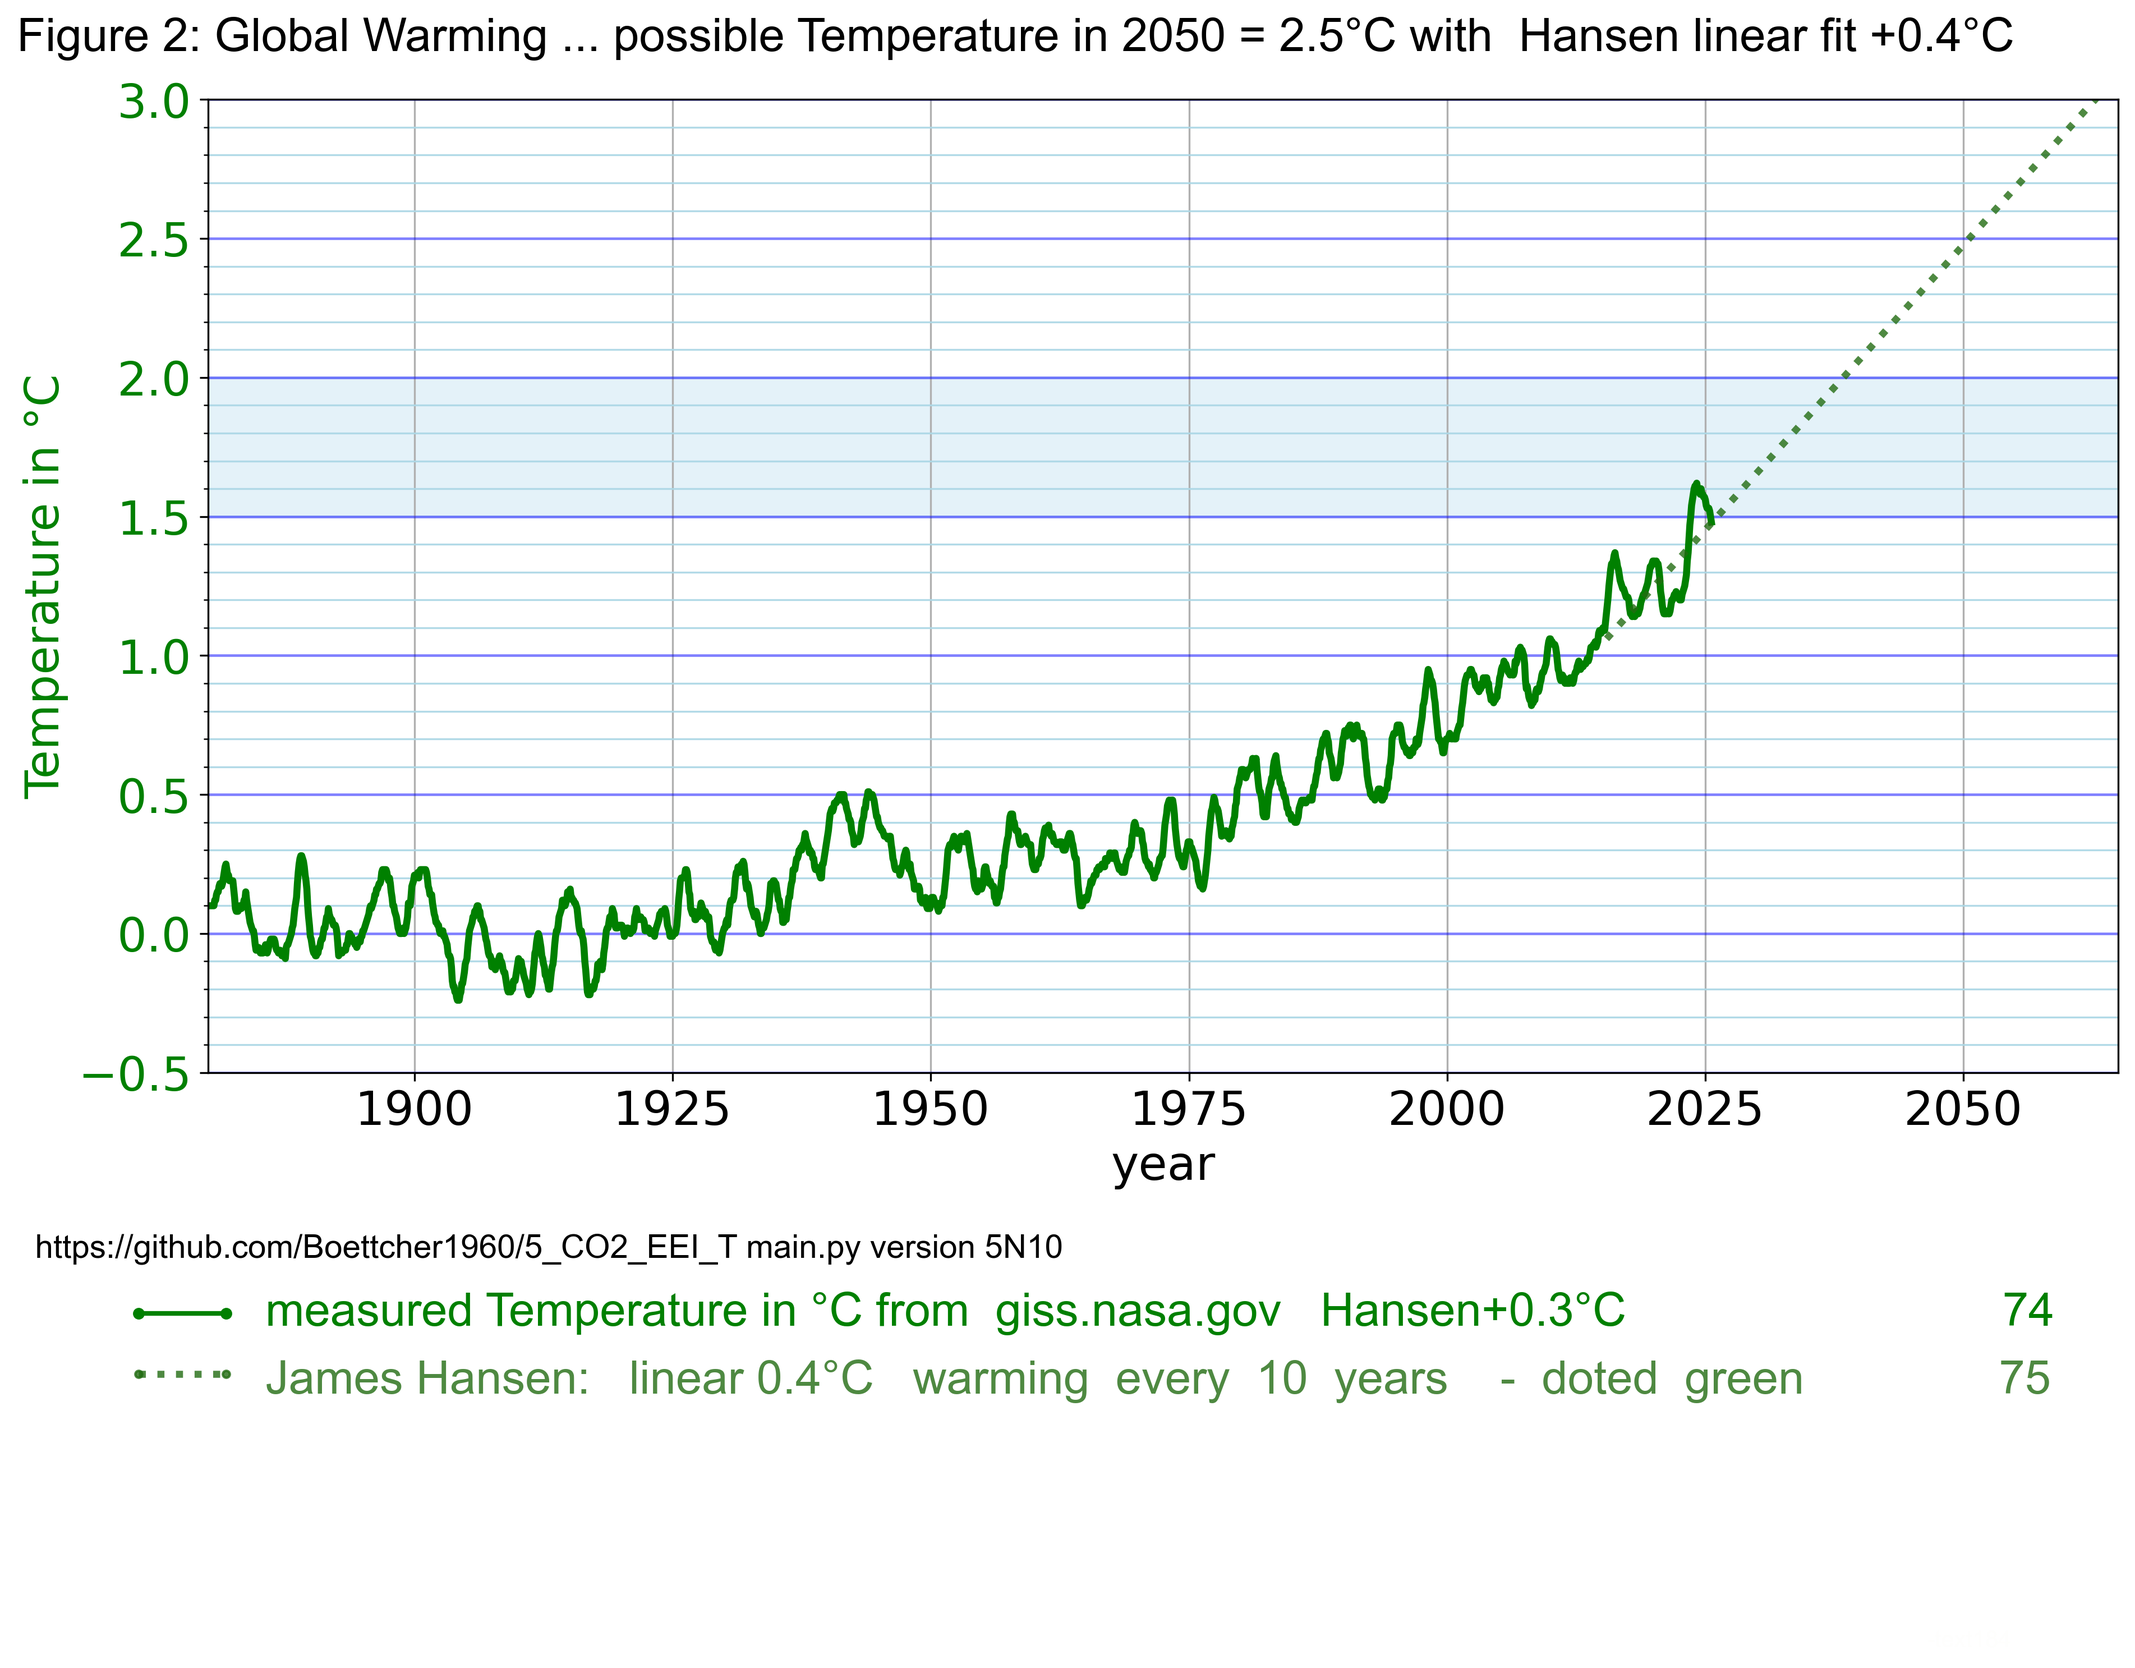
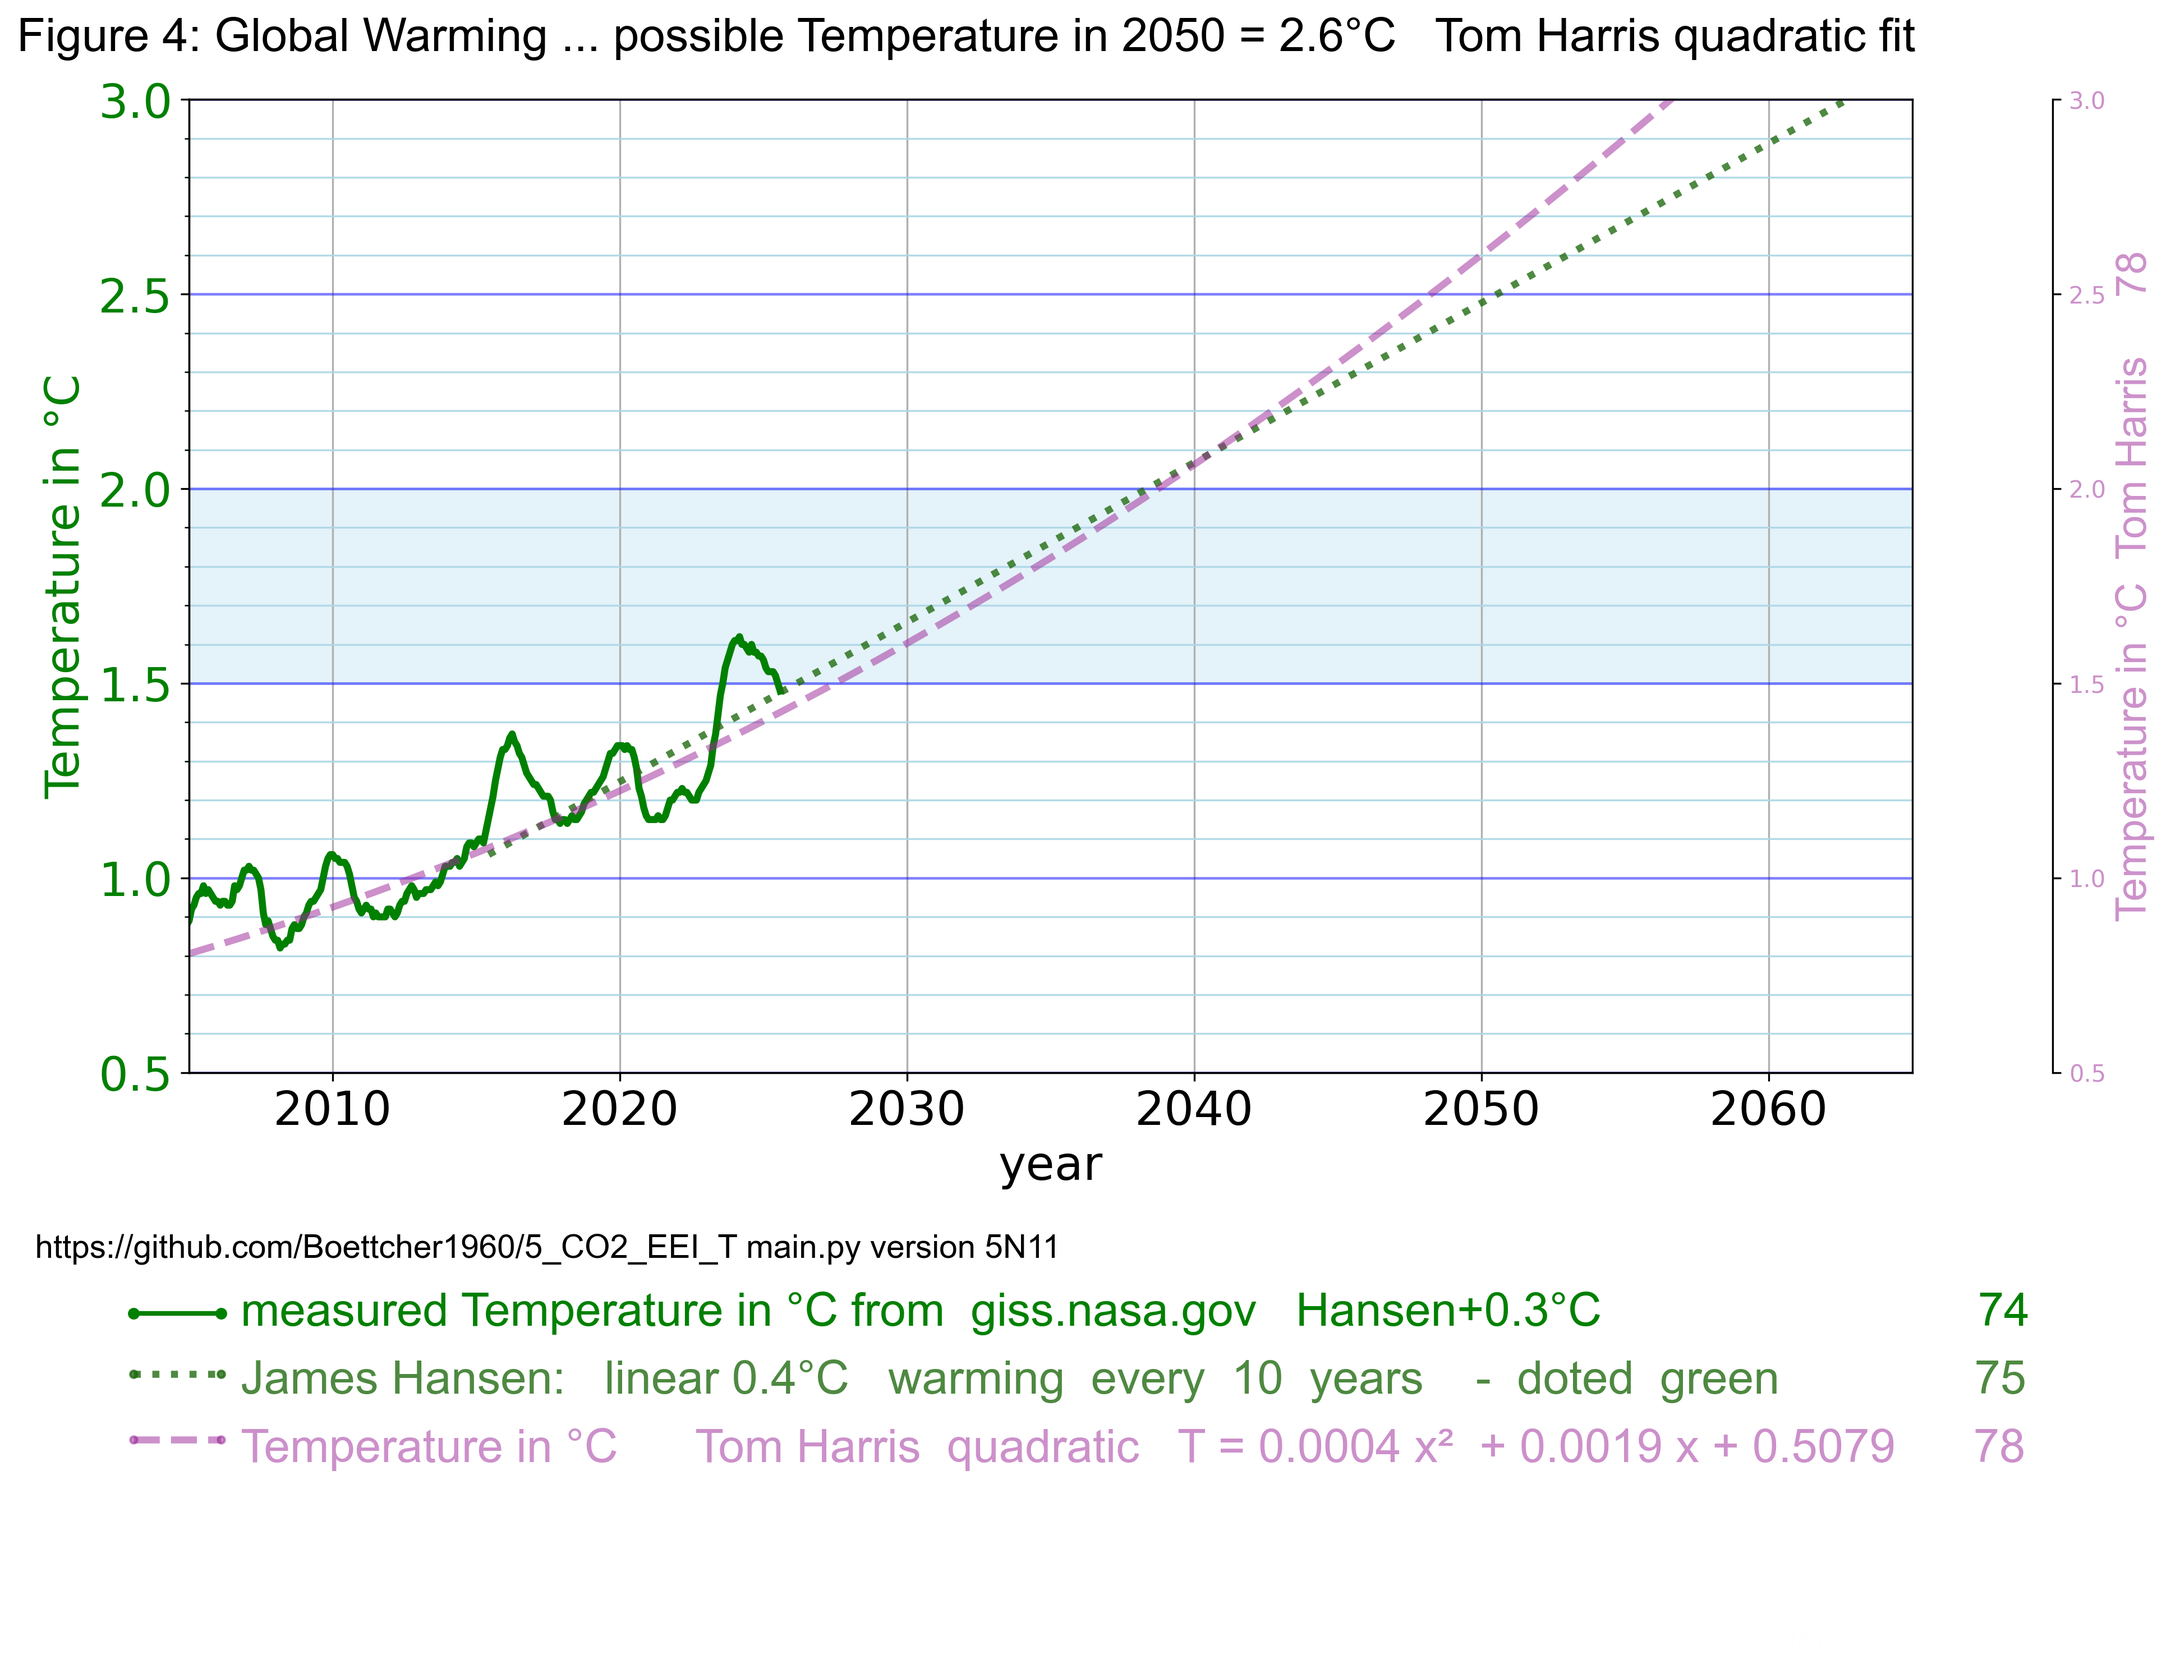
text_add_dashed_line(fig, x1, x2, y, color, linewidth=2, marker="o", markersize=3):

diff --git a/text.py b/text.py
@@ -41,12 +41,24 @@ def text_add_dotted_line(fig, x1, x2, y, color, linewidth=2, marker="o", markers
            color=color,
            # linestyle="None", 
            linestyle=":",
-           linewidth = 3
-            )
-
+           linewidth = 3                  )
     fig.add_artist(line)
     return line
 
+def text_add_dashed_line(fig, x1, x2, y, color, linewidth=2, marker="o", markersize=3):
+    # line = Line2D([x1, x2+0.02], [y, y], transform=fig.transFigure,
+    #              marker=marker, markersize=markersize, color=color, linewidth=linewidth)
+    line = Line2D(
+           [x1, x2 + 0.02], [y + 0.01, y+ 0.01],
+           transform=fig.transFigure,
+           marker=marker,
+           markersize=markersize,
+           color=color,
+           # linestyle="None", 
+           linestyle="--",
+           linewidth = 3                  )
+    fig.add_artist(line)
+    return line
 
 def text_4_add_text(ax, x, y, text, color, fontsize=20):
     """Add a text row below the plot"""
@@ -533,7 +545,7 @@ def text_9_print_7_lines(fig, ax1, header_parameter):
         text_4_add_text(ax1, tr2x, tr4y, 
                     "Temperature in °C   quadratic           1950=0.2°C     2013=1°C     2023=1.5°C         77", c77, trs)
     elif plot_T_78 == 4: # 78.5.3 legend
-        text_3_add_legend_line(fig, lr2x1, lr2x2, lr4y, c78)
+        text_add_dashed_line(fig, lr2x1, lr2x2, lr4y, c78)
         text_4_add_text(ax1, tr2x, tr4y, text78, c78, trs)
 
 

diff --git a/config.py b/config.py
@@ -12,7 +12,7 @@
 # 8.3 print the left y axis 
 # line 2 defines the left Y axis. example
 
-figure100 = 102 # 101 , 102 , 103 , 104 , 105 , 106 , 107 , 108  0 means create no old figure 1= make old figuure
+figure100 = 103 # 101 , 102 , 103 , 104 , 105 , 106 , 107 , 108  0 means create no old figure 1= make old figuure
 figure202 = 0 # 1 2=new figure with era5 temperature and quadratic curve
 figure303 = 0 # 3 , 4 
               # for figure303 = 3 keep the x axis logarithmic and plot in Rovang_figure_1.png

diff --git a/main.py b/main.py
@@ -1,5 +1,5 @@
 # main.py
-v = "5N10" #  Figure 2: Global Warming ... possible Temperature in 2050 = 2.5°C with  Hansen linear fit +0.4°C
+v = "5N11" #  text_add_dashed_line(fig, x1, x2, y, color, linewidth=2, marker="o", markersize=3):
 #
 #
 #
